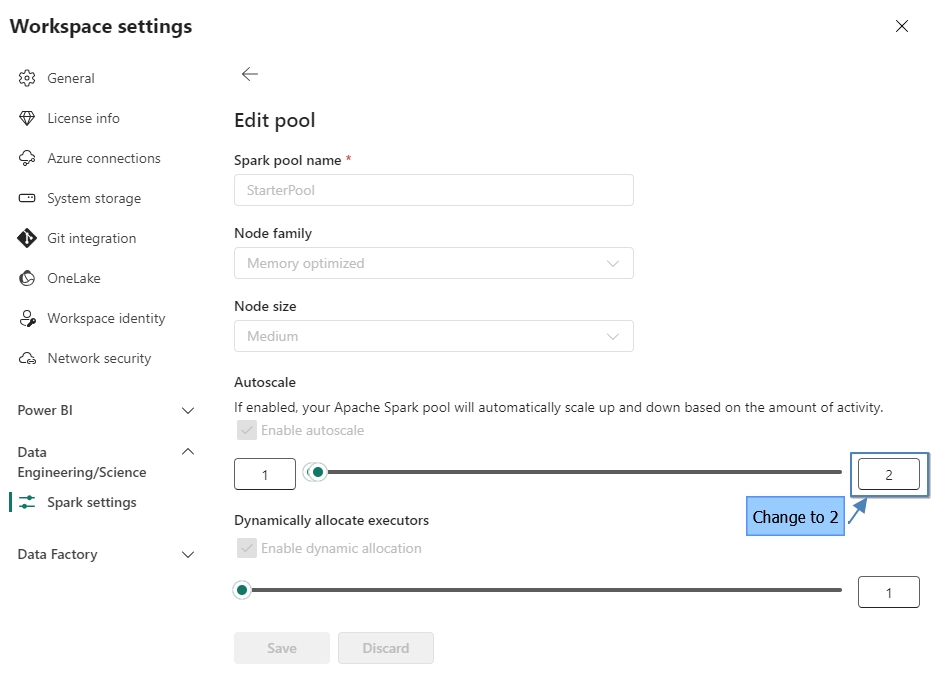
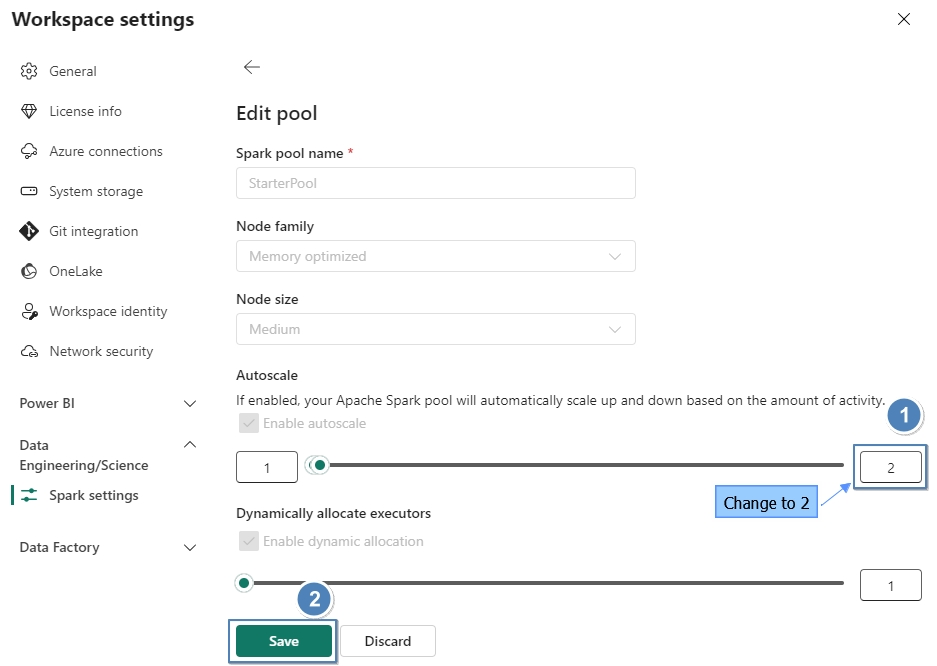
Updated screenshots of exercise-1 - Update 2

diff --git a/exercise-0-setup/start.md b/exercise-0-setup/start.md
@@ -89,7 +89,7 @@ To ensure smooth operation for multiple concurrent workshops happening today, yo
 ![One Node](../screenshots/extra/onenode2.jpg)
 
 3. **Adjust Autoscale Settings and Save Changes**:
-   - In the default pool configuration, change the autoscale maximum setting from 10 to 1. This limits the maximum number of nodes to 1 to prevent resource over-allocation.
+   - In the default pool configuration, change the autoscale maximum setting from 10 to 2. This limits the maximum number of nodes to 2 to prevent resource over-allocation.
    - Confirm and save your modifications to the default pool settings. Please note, you would have to hit `Save` twice. First on `Edit pool` pane and then second on the `Workspace settings` pane.
 
 ![One Node](../screenshots/extra/onenode3.jpg)
